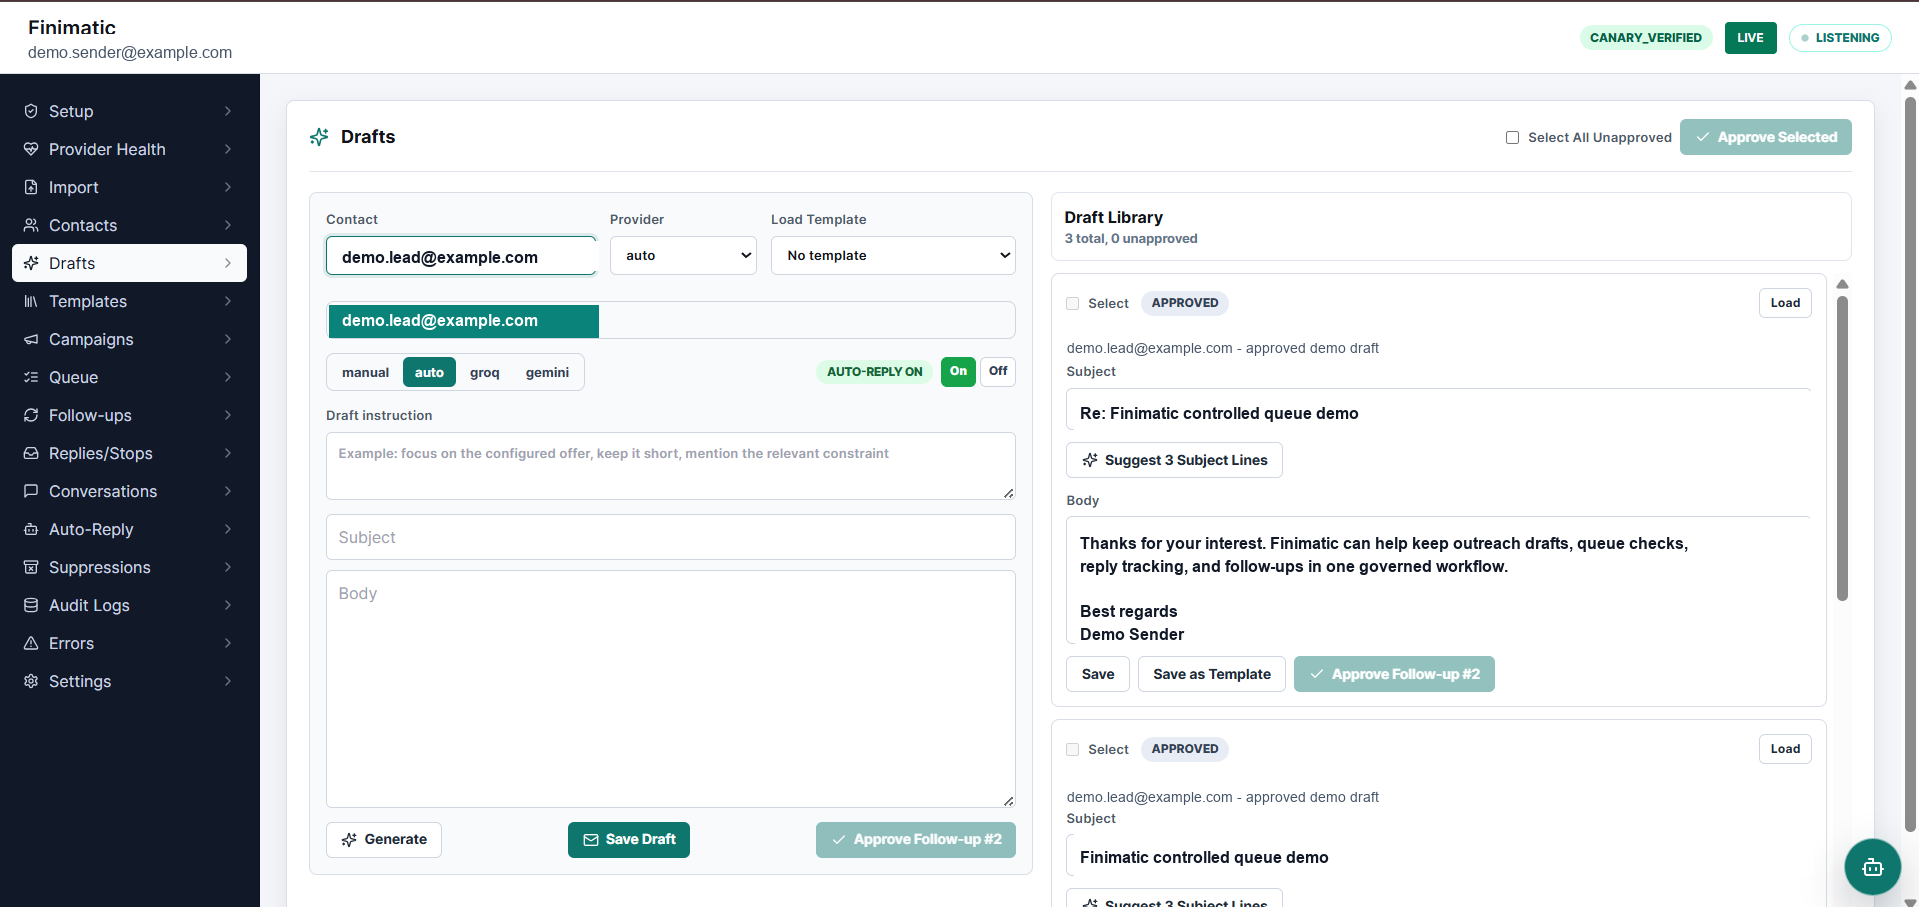
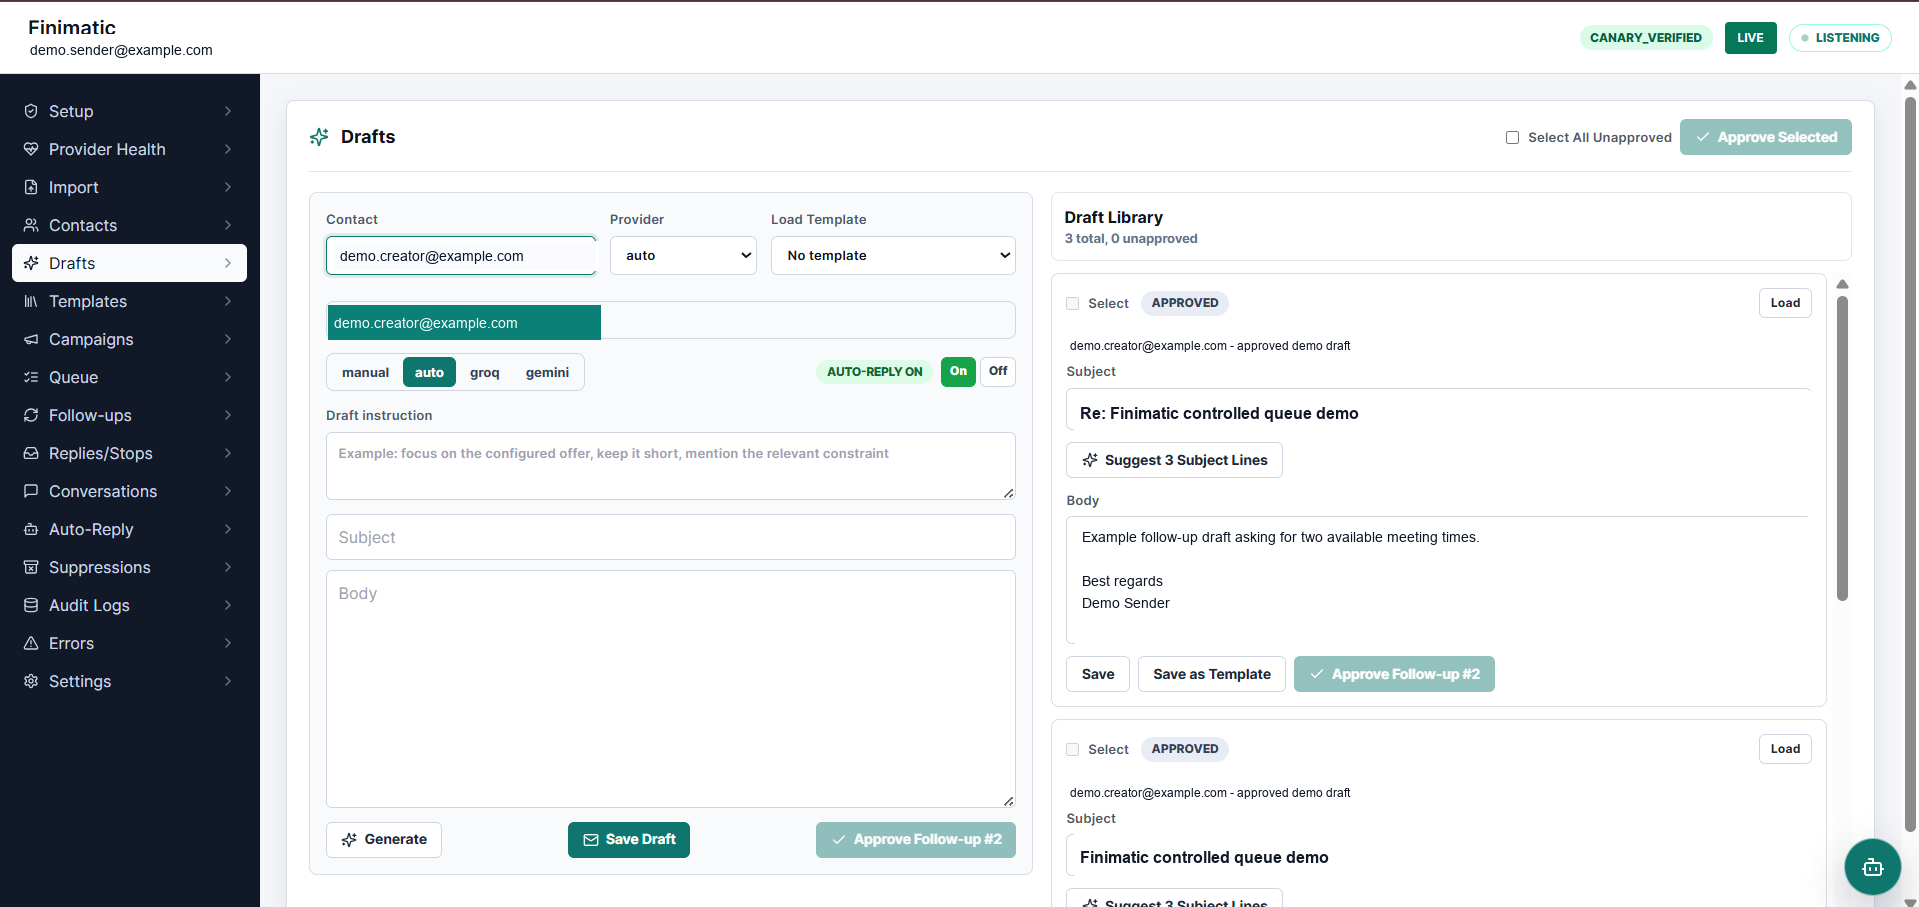
Refine GitHub identity and SEO

diff --git a/docs/NAMING_SEO_STRATEGY.md b/docs/NAMING_SEO_STRATEGY.md
@@ -1,0 +1,206 @@
+# Naming And SEO Strategy
+
+Generated: 2026-06-01
+
+Scope: GitHub-facing identity, README positioning, search terms, naming options, topics, and visual presentation for Finimatic. This document is documentation-only and does not approve a GitHub repository rename.
+
+## Current Identity Audit
+
+| Item | Current State | Evidence | Assessment |
+| --- | --- | --- | --- |
+| GitHub repository | `RossDmello2/email-automation` | `git remote -v`; `gh repo view RossDmello2/email-automation` | Searchable but generic. It says the category, not the strongest differentiator. |
+| README title | `Finimatic Email Ops` | `README.md:1` | Better than brand-only because it keeps the name while adding a category cue. |
+| README subtitle | Local-first, human-approved cold email operations with Gmail, AI-assisted drafting, policy gates, reply tracking, follow-ups, and audit logs. | `README.md:3` | Clear in the first few seconds and avoids fake production claims. |
+| GitHub description | Open-source FastAPI + React dashboard for self-hosted cold email operations: import leads, draft with Groq/Gemini, approve sends, track replies/follow-ups, and audit actions. | `gh repo view RossDmello2/email-automation --json description` | Clear, searchable, and honest. It now includes category, stack, deployment model, and workflow verbs. |
+| Topics | 20 topics covering email, stack, AI, Gmail, and governance | `gh repo view RossDmello2/email-automation --json repositoryTopics` | Good baseline. Should shift from generic `email-marketing` to `email-outreach`, `self-hosted`, and `local-first`. |
+| First paragraph | Open-source self-hosted email operations dashboard built with FastAPI, React, Vite, SQLAlchemy, Gmail SMTP/IMAP, Groq, and Gemini. | `README.md:9` | Stronger than framework-only copy because it says category, use case, and stack. |
+| Visuals | Conceptual hero plus three sanitized product screenshots | `README.md:19-25`; `docs/assets/brand/hero.png`; `docs/assets/screenshots/*.png` | Good trust signal. Real screenshots remain separate from generated artwork. |
+
+## Source-Backed Project Identity
+
+Finimatic Email Ops is a local-first email operations dashboard for governed cold outreach. The backend is FastAPI and mounts routes for settings, health, canary, imports, contacts, conversations, auto-reply, drafts, templates, campaigns, queue, follow-ups, suppressions, replies, audit, and the assistant under `/api/agent` (`backend/app/main.py:97-127`).
+
+The frontend is a React/Vite dashboard with primary surfaces for setup, provider health, import, contacts, drafts, templates, campaigns, queue, follow-ups, replies/stops, conversations, auto-reply, suppressions, audit logs, errors, settings, and the floating assistant (`frontend/src/App.tsx:55-71`, `frontend/src/App.tsx:232-251`).
+
+The data model is operational rather than a simple demo. It includes settings, imports, contacts, drafts, templates, send queue, send attempts, follow-up sequences, suppressions, replies, conversation messages, audit events, provider health, campaign plans, agent sessions, and pending email actions (`backend/app/db/models.py:18-271`).
+
+The strongest differentiator is side-effect governance:
+
+- Drafts are unapproved by default (`backend/app/db/models.py:76-90`).
+- Queue sends pass policy checks before dispatch (`backend/app/send/policy.py:69-103`).
+- Assistant sends are bound to pending actions with session, expiry, consumed-state, and draft-hash checks (`backend/app/agent/pending.py:13-112`).
+- Settings encrypt Gmail, Groq, and Gemini values before storage (`backend/app/settings/service.py:145-155`).
+- Settings reads expose counts and fingerprints instead of raw provider keys (`backend/app/settings/service.py:192-240`).
+
+The strongest public use cases are:
+
+- study a full-stack FastAPI + React email operations app
+- self-host a private cold-email operations dashboard
+- learn how to place policy gates around outbound email side effects
+- study human-in-the-loop AI drafting and confirmation-bound sending
+- run fake/dry-run/canary flows before using live Gmail
+
+Boundaries that must remain explicit:
+
+- Do not claim public SaaS readiness or built-in multi-user authentication. The docs warn to add authentication or private access before public exposure (`README.md:13`, `docs/DEPLOYMENT.md:14-21`, `SECURITY.md:35-40`).
+- Do not claim every email path is always human-approved. Auto-reply can run in autonomous mode when enabled and gates pass (`frontend/src/App.tsx:2408-2413`, `backend/app/conversations/auto_reply_service.py:192-214`).
+- Do not claim full multi-agent LLM orchestration for every assistant stage. Several assistant stages are deterministic/rule-based, with Groq used where available for channel classification (`backend/app/agent/goal_frame.py:7-62`, `backend/app/agent/channel_router.py:50-94`).
+- Do not claim attachment content processing. The assistant frontend sends metadata and strips the `File` object (`frontend/src/features/floating-assistant/assistantApi.ts:37-43`, `frontend/src/features/floating-assistant/assistantStore.ts:143-150`).
+- Do not claim deliverability, inbox placement, compliance, or a verified live hosted URL (`README.md:372-376`, `docs/DEPLOYMENT.md:161-168`).
+
+## Search Intent Matrix
+
+| Persona | Likely Search Query | Relevant Keywords | What They Need To See | Topic Candidates |
+| --- | --- | --- | --- | --- |
+| Beginner full-stack developer | `fastapi react email automation example` | FastAPI, React, Vite, SQLAlchemy, email dashboard | screenshots, quick start, project structure, fake mode | `fastapi`, `react`, `vite`, `sqlalchemy`, `email-automation` |
+| Self-hosting user | `self hosted cold email dashboard` | self-hosted, local-first, Gmail, PostgreSQL | deployment caveats, auth warning, env vars | `self-hosted`, `local-first`, `gmail`, `postgresql` |
+| Technical email operator | `cold email queue follow up tracking open source` | queue, follow-ups, replies, suppressions, audit | operational workflow and screenshots | `cold-email`, `email-outreach`, `email-ops`, `audit-logs` |
+| AI builder | `AI email assistant human in the loop send confirmation` | AI drafting, confirmation, pending action, Groq, Gemini | safety model and assistant confirmation flow | `ai-email-assistant`, `human-in-the-loop`, `groq`, `gemini` |
+| Security-minded engineer | `email automation secrets backend encrypted settings` | Fernet, backend-owned secrets, redaction, policy gates | security notes and no frontend secrets | `gmail`, `smtp`, `imap`, `audit-logs` |
+| Recruiter or non-technical evaluator | `email automation dashboard portfolio project` | dashboard, workflow, screenshots, open source | first paragraph, preview, plain-English value | `email-automation`, `email-ops`, `react`, `python` |
+
+## Similar Repository Pattern Scan
+
+Method: GitHub CLI search and live web search on 2026-06-01 using `cold email automation`, `email automation dashboard`, `self hosted email marketing`, `AI email assistant`, `self hosted email outreach automation`, and related terms.
+
+Observed examples:
+
+| Query | Examples Found | Pattern |
+| --- | --- | --- |
+| `cold email automation` | [PaulleDemon/Email-automation](https://github.com/PaulleDemon/Email-automation), [deep-div/Cold-Email-Automation](https://github.com/deep-div/Cold-Email-Automation), [SURESHBEEKHANI/Cold-Email-Automations](https://github.com/SURESHBEEKHANI/Cold-Email-Automations) | Many names are literal and generic. They are searchable but not memorable. |
+| `email automation dashboard` | [manoj-kumar006/Email-automation-dashboard](https://github.com/manoj-kumar006/Email-automation-dashboard), [Nimesh-Tharaka/Smart-Email-Automation-Dashboard](https://github.com/Nimesh-Tharaka/Smart-Email-Automation-Dashboard) | Dashboard terms help search intent, but descriptions often lack differentiators. |
+| `self hosted email marketing` | [mettle/sendportal](https://github.com/mettle/sendportal), [vitorfs/colossus](https://github.com/vitorfs/colossus) | Higher-signal projects often use a short brand plus a direct description. |
+| `AI email assistant` | [Drlordbasil/groq-gmail-assistant](https://github.com/Drlordbasil/groq-gmail-assistant), [NotaBeen/notabeen-ai-email-assistant](https://github.com/NotaBeen/notabeen-ai-email-assistant) | AI-focused names attract searchers but can over-focus on chat instead of the full workflow. |
+| `self-hosted email agent` | [cloudflare/agentic-inbox](https://github.com/cloudflare/agentic-inbox), [agenticmail/agenticmail](https://github.com/agenticmail/agenticmail) | Agent-oriented projects benefit from very direct descriptions of the trust boundary and deployment model. |
+| `open-source email platform` | [useplunk/plunk](https://github.com/useplunk/plunk), [199ocero/mailifyflow](https://github.com/199ocero/mailifyflow) | Larger email platforms use broad platform language; Finimatic should stay narrower and emphasize governed outreach ops. |
+
+Useful naming patterns:
+
+- Short brand + category descriptor: `Finimatic Email Ops`
+- Use-case-first subtitle: `Self-hosted cold email operations with human approval gates`
+- Stack in description, not necessarily in the name
+- Safety differentiator in description: `policy-gated`, `audit logs`, `human-approved`
+
+Overused or weak patterns:
+
+- `ColdEmailAutomation`, `Email-Automation-Dashboard`, `Smart Email Automation`
+- Names that hide email/outreach entirely
+- Names that imply inbox management when the app is primarily outbound operations
+- Names that imply autonomous sending or production deliverability
+
+## Candidate Names
+
+Scores: 1 = weak, 10 = strong. Total is directional, not a trademark or availability check.
+
+| Candidate | Clarity | Memorability | Searchability | Honesty | Domain Fit | Beginner Appeal | Professional Credibility | Uniqueness | Notes |
+| --- | ---: | ---: | ---: | ---: | ---: | ---: | ---: | ---: | --- |
+| Finimatic Email Ops | 9 | 8 | 9 | 10 | 10 | 9 | 9 | 8 | Best balance. Keeps brand and adds category. |
+| Finimatic Outreach Ops | 8 | 8 | 8 | 9 | 9 | 8 | 9 | 8 | Good if outbound outreach is emphasized over general email. |
+| Finimatic MailOps | 8 | 8 | 7 | 9 | 9 | 7 | 9 | 8 | Professional, but `MailOps` is less beginner-friendly. |
+| Governed Email Ops | 9 | 6 | 8 | 10 | 9 | 7 | 9 | 5 | Accurate but generic and less ownable. |
+| HumanLoop Email Ops | 8 | 8 | 7 | 9 | 8 | 8 | 8 | 7 | Strong safety signal, but sounds narrower than the full app. |
+| PolicyGate Mail | 7 | 8 | 6 | 8 | 8 | 6 | 8 | 8 | Memorable, but policy-gate language may feel abstract. |
+| CanaryMail Ops | 7 | 8 | 6 | 8 | 7 | 6 | 8 | 7 | Canary is a real workflow, but not the whole product. |
+| DraftQueue | 7 | 8 | 6 | 7 | 7 | 8 | 7 | 7 | Clean, but omits replies, audit, and AI. |
+| ReplySafe Ops | 7 | 7 | 6 | 7 | 7 | 7 | 8 | 7 | Sounds like reply safety rather than outbound ops. |
+| Outreach Guard | 8 | 7 | 8 | 8 | 8 | 8 | 8 | 6 | Good safety framing, but could imply compliance features not verified. |
+| Self-Hosted Cold Email Ops | 10 | 4 | 10 | 9 | 9 | 8 | 7 | 3 | Very searchable but poor as a brand. |
+| Cold Email Control Room | 9 | 7 | 8 | 8 | 9 | 8 | 8 | 6 | Visually strong, but a bit long and dramatic. |
+| Mailflow Governor | 7 | 7 | 5 | 8 | 7 | 6 | 8 | 7 | Interesting but not obvious enough for search. |
+| ConfirmSend | 7 | 8 | 6 | 7 | 7 | 8 | 7 | 8 | Good assistant-send concept, too narrow for the full dashboard. |
+| AuditMail Ops | 7 | 7 | 6 | 8 | 7 | 6 | 8 | 7 | Audit is real, but it should not dominate the identity. |
+| Send Queue Studio | 8 | 6 | 7 | 8 | 8 | 8 | 7 | 5 | Understandable but misses replies/AI and sounds generic. |
+| Gmail Outreach Console | 9 | 5 | 9 | 8 | 8 | 8 | 7 | 4 | Searchable, but too tied to Gmail and less brandable. |
+| AI Outreach Desk | 7 | 7 | 8 | 6 | 7 | 8 | 6 | 5 | Attractive but risks overclaiming AI centrality. |
+
+Rejected directions:
+
+- `Finimatic AI`: too broad and hides the email operations workflow.
+- `Autonomous Email Agent`: misleading because side effects are intended to be governed and not fully autonomous.
+- `Inbox Copilot`: misleading because the app is not primarily an inbox manager.
+- `Production Cold Email Platform`: overclaims readiness, authentication, compliance, and deliverability.
+- `Enterprise Email Automation`: overclaims enterprise readiness.
+
+## Top 3 Recommended Names
+
+### 1. Finimatic Email Ops
+
+Best display name: `Finimatic Email Ops`
+
+Best repo slug: `finimatic-email-ops`
+
+Best tagline: `Local-first, human-approved cold email operations with Gmail, AI-assisted drafting, policy gates, reply tracking, follow-ups, and audit logs.`
+
+Best GitHub description:
+
+`Open-source FastAPI + React dashboard for self-hosted cold email operations: import leads, draft with Groq/Gemini, review and approve sends, track replies/follow-ups, and audit every action.`
+
+Recommended topics:
+
+`cold-email`, `email-automation`, `email-outreach`, `email-ops`, `self-hosted`, `local-first`, `human-in-the-loop`, `ai-email-assistant`, `gmail`, `smtp`, `imap`, `fastapi`, `python`, `react`, `typescript`, `vite`, `sqlalchemy`, `postgresql`, `groq`, `gemini`
+
+Risk/tradeoff: the name is longer than `Finimatic`, but it is much clearer in GitHub search and README previews.
+
+### 2. Finimatic Outreach Ops
+
+Best repo slug: `finimatic-outreach-ops`
+
+Tagline: `Governed outreach operations for drafting, approving, sending, tracking replies, and auditing every email action.`
+
+Risk/tradeoff: stronger outreach positioning, but less direct for users searching `email automation`.
+
+### 3. Governed Email Ops
+
+Best repo slug: `governed-email-ops`
+
+Tagline: `A self-hosted email operations dashboard built around review, policy gates, and audit trails.`
+
+Risk/tradeoff: very clear, but less ownable and less memorable than Finimatic.
+
+## Final Recommendation
+
+Keep the current GitHub repository slug `email-automation` until the owner explicitly approves a rename. The current slug is generic but not harmful, and renaming would affect clone URLs, GitHub Pages paths, badges, CI references, deployment docs, and external links.
+
+Recommended display identity now:
+
+- README title: `Finimatic Email Ops`
+- Short tagline: `Local-first, human-approved cold email operations with Gmail, AI-assisted drafting, policy gates, reply tracking, follow-ups, and audit logs.`
+- Public category: `self-hosted cold email operations dashboard`
+
+Recommended repo rename only if explicitly approved:
+
+```powershell
+gh repo rename finimatic-email-ops --repo RossDmello2/email-automation
+```
+
+Before running a rename, update any GitHub Pages paths, badges, deployment docs, local remotes, and external deployment settings that reference `email-automation`.
+
+## Visual Strategy
+
+Real screenshots should stay near the top because they prove the dashboard exists. Generated art should stay clearly labeled as conceptual. Current visual assets:
+
+- `docs/assets/brand/hero.png` - conceptual README hero artwork
+- `docs/assets/brand/social-preview.png` - prepared GitHub social preview asset
+- `docs/assets/screenshots/drafts-dashboard.png` - real sanitized drafts dashboard screenshot
+- `docs/assets/screenshots/replies-stops-dashboard.png` - real sanitized replies/stops screenshot
+- `docs/assets/screenshots/campaign-assistant.png` - real sanitized campaign builder and assistant screenshot
+
+Recommended GitHub social preview upload:
+
+1. Open GitHub repository Settings.
+2. Go to Social preview.
+3. Upload `docs/assets/brand/social-preview.png`.
+4. Do not use generated artwork as proof of product behavior; keep the README screenshots as the product evidence.
+
+## Claim Hygiene Checklist
+
+| Claim Type | Use? | Recommended Wording |
+| --- | --- | --- |
+| Local-first | Yes | `local-first` because SQLite default, local setup, backend-owned settings, and self-hosting docs support it. |
+| Self-hosted | Yes | `self-hosted` with caveat that auth/private access is needed before public exposure. |
+| Human-approved | Yes, qualified | Use for drafts, queue, and assistant sends; do not say every email path always requires human approval because auto-reply autonomous mode exists. |
+| AI-powered | Avoid as headline | Use `AI-assisted drafting` or `AI-assisted assistant` instead. |
+| Production-ready | No | Use `READY WITH GAPS` and document missing auth/live-provider verification. |
+| Enterprise-grade | No | Not source-backed. |
+| Deliverability/compliance | No | Explicitly state not guaranteed. |
+| Secure | Avoid broad claim | Use concrete claims: encrypted stored settings, backend-owned secrets, redacted audit payloads, pending-action confirmation. |

diff --git a/README.md b/README.md
@@ -1,4 +1,6 @@
-# Finimatic
+# Finimatic Email Ops
+
+Local-first, human-approved cold email operations with Gmail, AI-assisted drafting, policy gates, reply tracking, follow-ups, and audit logs.
 
 [![CI](https://github.com/RossDmello2/email-automation/actions/workflows/ci.yml/badge.svg)](https://github.com/RossDmello2/email-automation/actions/workflows/ci.yml)
 [![Backend](https://img.shields.io/badge/backend-FastAPI-009688)](https://fastapi.tiangolo.com/)
@@ -6,7 +8,7 @@
 [![Database](https://img.shields.io/badge/database-SQLAlchemy%20%2B%20SQLite%2FPostgreSQL-336791)](https://www.sqlalchemy.org/)
 [![License: MIT](https://img.shields.io/badge/license-MIT-blue.svg)](LICENSE)
 
-Finimatic is a local-first, human-in-the-loop cold email automation dashboard built with FastAPI, React, Vite, SQLAlchemy, Gmail SMTP/IMAP, Groq, and Gemini. It helps an operator import leads, draft outreach, approve messages, process a policy-gated send queue, track replies, schedule follow-ups, and audit every email operation.
+Finimatic Email Ops is an open-source, self-hosted email operations dashboard built with FastAPI, React, Vite, SQLAlchemy, Gmail SMTP/IMAP, Groq, and Gemini. It helps an operator import leads, draft outreach, approve messages, process a policy-gated send queue, track replies, schedule follow-ups, and audit every email operation.
 
 The project is for developers, technical operators, and maintainers who want to study or self-host a governed email operations workflow. AI can help draft and summarize, but backend code owns credentials, policy checks, audit logs, confirmation gates, and send execution.
 
@@ -14,7 +16,7 @@ The project is for developers, technical operators, and maintainers who want to 
 
 ## Preview
 
-The banner is generated conceptual artwork for README presentation. The product screenshots below it are real sanitized captures from the running app.
+The banner is generated conceptual artwork for README presentation. The product screenshots below it are real sanitized captures from the running app. A GitHub social preview image is prepared at [docs/assets/brand/social-preview.png](docs/assets/brand/social-preview.png).
 
 ![Conceptual Finimatic email operations workflow banner](docs/assets/brand/hero.png)
 
@@ -23,6 +25,10 @@ The banner is generated conceptual artwork for README presentation. The product 
 ![Finimatic replies and stop-state tracking dashboard](docs/assets/screenshots/replies-stops-dashboard.png)
 
 ![Finimatic campaign builder with floating assistant open](docs/assets/screenshots/campaign-assistant.png)
+
+## Why It Exists
+
+Most email automation examples focus on generating copy or sending faster. Finimatic focuses on the operational controls around outreach: review before send, explicit policy gates, reply-aware stop states, canary checks, dry-run mode, and audit trails that make side effects easier to inspect.
 
 ## What It Does
 
@@ -139,6 +145,7 @@ Read more:
 |   |-- DATA_MODEL.md
 |   |-- DEPLOYMENT.md
 |   |-- GETTING_STARTED.md
+|   |-- NAMING_SEO_STRATEGY.md
 |   |-- TESTING.md
 |   |-- TROUBLESHOOTING.md
 |   `-- reference/              # Historical specs, audits, and repair notes
@@ -343,6 +350,7 @@ Read [docs/DEPLOYMENT.md](docs/DEPLOYMENT.md) before deploying. It covers enviro
 - [API Reference](docs/API_REFERENCE.md)
 - [Current Data Model](docs/DATA_MODEL.md)
 - [Deployment Guide](docs/DEPLOYMENT.md)
+- [Naming and SEO Strategy](docs/NAMING_SEO_STRATEGY.md)
 - [Testing Guide](docs/TESTING.md)
 - [Troubleshooting](docs/TROUBLESHOOTING.md)
 - [Historical Reference Docs](docs/reference/)
